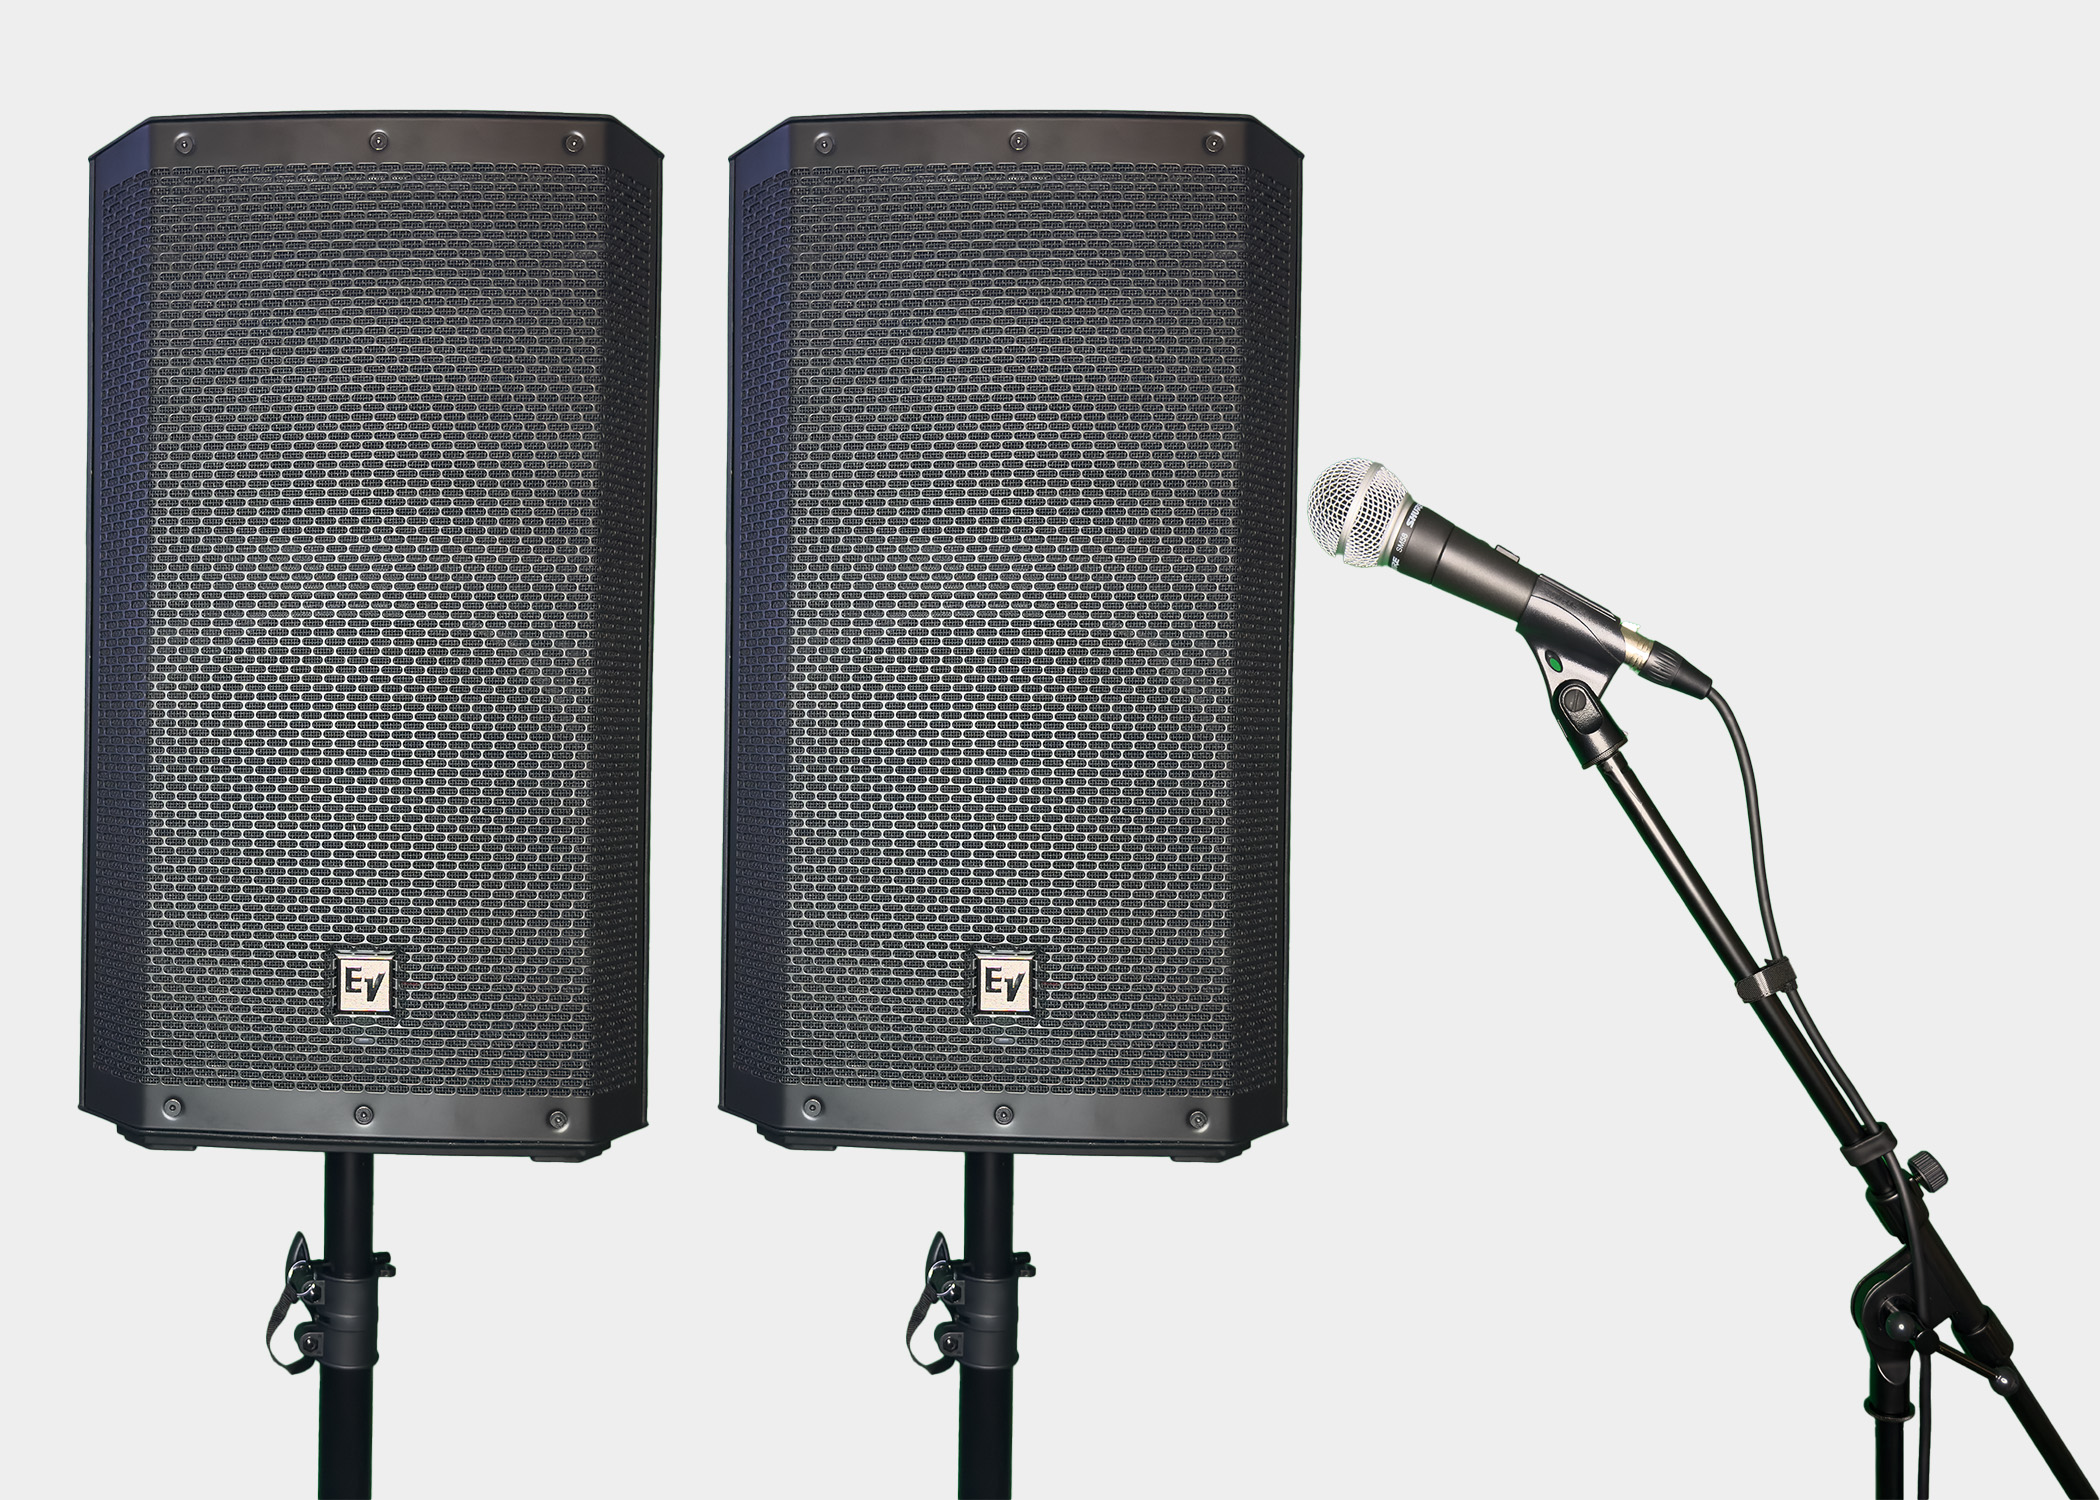
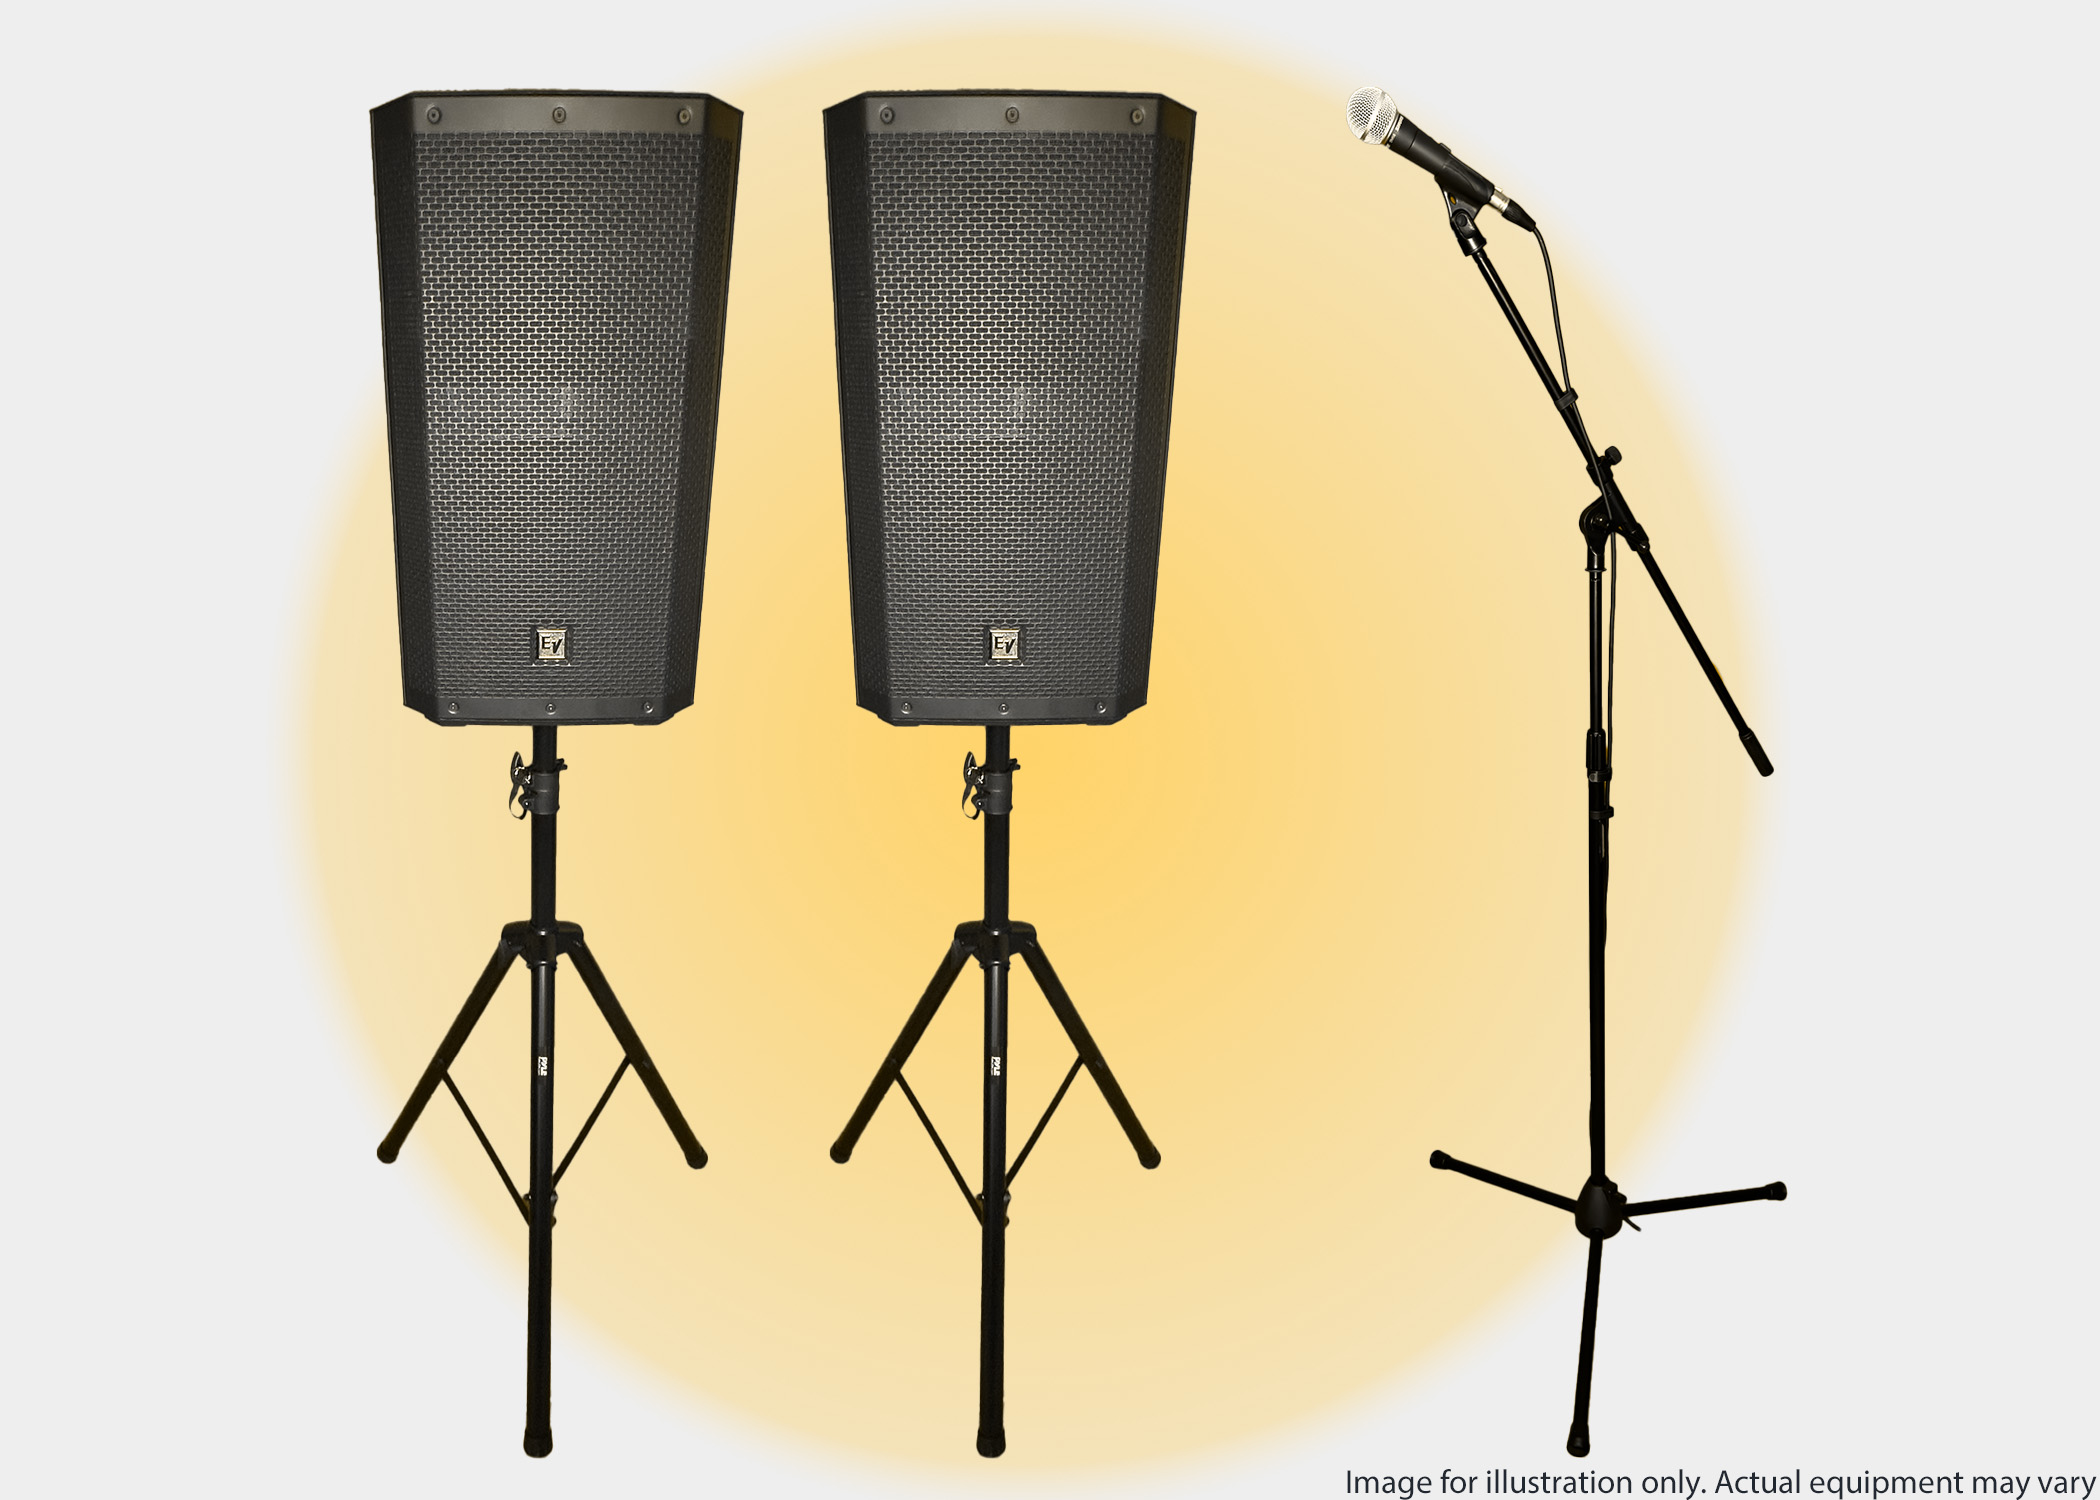
Various Changes
+ Added package photos
+ Added home page pics
+ Modified some content

diff --git a/_site/packages/package4/index.html b/_site/packages/package4/index.html
@@ -29,12 +29,12 @@
 <meta property="og:site_name" content="VANS Pro Audio Rentals" />
 <meta property="og:image" content="http://localhost:4000/assets/images/package4.jpg" />
 <meta property="og:type" content="article" />
-<meta property="article:published_time" content="2024-12-11T20:20:49-08:00" />
+<meta property="article:published_time" content="2024-12-14T12:03:40-08:00" />
 <meta name="twitter:card" content="summary_large_image" />
 <meta property="twitter:image" content="http://localhost:4000/assets/images/package4.jpg" />
 <meta property="twitter:title" content="Package 4" />
 <script type="application/ld+json">
-{"@context":"https://schema.org","@type":"BlogPosting","author":{"@type":"Person","name":"Vans"},"dateModified":"2024-12-11T20:20:49-08:00","datePublished":"2024-12-11T20:20:49-08:00","description":"This package includes an analog mixer and is targeted for events or setups where you need to connect more inputs such as microphones, keyboards, guitars, electronic drums etc. Includes 2 1000W full range speakers and a 1020W subwoofer for sound reinforcement. Perfect for small bands and outdoor gigs. One vocal microphone package (microphone, stand and cable) is included but more can be rented out separately.","headline":"Package 4","image":"http://localhost:4000/assets/images/package4.jpg","mainEntityOfPage":{"@type":"WebPage","@id":"http://localhost:4000/packages/package4/"},"url":"http://localhost:4000/packages/package4/"}</script>
+{"@context":"https://schema.org","@type":"BlogPosting","author":{"@type":"Person","name":"Vans"},"dateModified":"2024-12-14T12:03:40-08:00","datePublished":"2024-12-14T12:03:40-08:00","description":"This package includes an analog mixer and is targeted for events or setups where you need to connect more inputs such as microphones, keyboards, guitars, electronic drums etc. Includes 2 1000W full range speakers and a 1020W subwoofer for sound reinforcement. Perfect for small bands and outdoor gigs. One vocal microphone package (microphone, stand and cable) is included but more can be rented out separately.","headline":"Package 4","image":"http://localhost:4000/assets/images/package4.jpg","mainEntityOfPage":{"@type":"WebPage","@id":"http://localhost:4000/packages/package4/"},"url":"http://localhost:4000/packages/package4/"}</script>
 <!-- End Jekyll SEO tag -->
 
     
@@ -190,6 +190,7 @@
           <img src="/assets/images/logo.svg" alt="Bootstrap" width="60" height="60">
       </a>
       <p class="text-body-info">&copy; 2024 VANS Professional Audio Rentals</p>
+      <p class="text-body-info">United States</p>
     </div>
 
     <div class="col mb-3">

diff --git a/_site/packages/package3/index.html b/_site/packages/package3/index.html
@@ -29,12 +29,12 @@
 <meta property="og:site_name" content="VANS Pro Audio Rentals" />
 <meta property="og:image" content="http://localhost:4000/assets/images/package3.jpg" />
 <meta property="og:type" content="article" />
-<meta property="article:published_time" content="2024-12-11T20:20:49-08:00" />
+<meta property="article:published_time" content="2024-12-14T12:03:40-08:00" />
 <meta name="twitter:card" content="summary_large_image" />
 <meta property="twitter:image" content="http://localhost:4000/assets/images/package3.jpg" />
 <meta property="twitter:title" content="Package 3" />
 <script type="application/ld+json">
-{"@context":"https://schema.org","@type":"BlogPosting","author":{"@type":"Person","name":"Vans"},"dateModified":"2024-12-11T20:20:49-08:00","datePublished":"2024-12-11T20:20:49-08:00","description":"This package enhances Package 1 by adding a subwoofer, delivering the powerful low-end punch your sound system deserves. This is the go to package if you need to mostly play music for your audience. A wired vocal microphone package (microphone, stand and cable) is included with this package in case you need to make announcements between playing music.","headline":"Package 3","image":"http://localhost:4000/assets/images/package3.jpg","mainEntityOfPage":{"@type":"WebPage","@id":"http://localhost:4000/packages/package3/"},"url":"http://localhost:4000/packages/package3/"}</script>
+{"@context":"https://schema.org","@type":"BlogPosting","author":{"@type":"Person","name":"Vans"},"dateModified":"2024-12-14T12:03:40-08:00","datePublished":"2024-12-14T12:03:40-08:00","description":"This package enhances Package 1 by adding a subwoofer, delivering the powerful low-end punch your sound system deserves. This is the go to package if you need to mostly play music for your audience. A wired vocal microphone package (microphone, stand and cable) is included with this package in case you need to make announcements between playing music.","headline":"Package 3","image":"http://localhost:4000/assets/images/package3.jpg","mainEntityOfPage":{"@type":"WebPage","@id":"http://localhost:4000/packages/package3/"},"url":"http://localhost:4000/packages/package3/"}</script>
 <!-- End Jekyll SEO tag -->
 
     
@@ -184,6 +184,7 @@
           <img src="/assets/images/logo.svg" alt="Bootstrap" width="60" height="60">
       </a>
       <p class="text-body-info">&copy; 2024 VANS Professional Audio Rentals</p>
+      <p class="text-body-info">United States</p>
     </div>
 
     <div class="col mb-3">

diff --git a/_site/packages/package1/index.html b/_site/packages/package1/index.html
@@ -29,12 +29,12 @@
 <meta property="og:site_name" content="VANS Pro Audio Rentals" />
 <meta property="og:image" content="http://localhost:4000/assets/images/package1.jpg" />
 <meta property="og:type" content="article" />
-<meta property="article:published_time" content="2024-12-11T20:20:49-08:00" />
+<meta property="article:published_time" content="2024-12-14T12:03:40-08:00" />
 <meta name="twitter:card" content="summary_large_image" />
 <meta property="twitter:image" content="http://localhost:4000/assets/images/package1.jpg" />
 <meta property="twitter:title" content="Package 1" />
 <script type="application/ld+json">
-{"@context":"https://schema.org","@type":"BlogPosting","author":{"@type":"Person","name":"Vans"},"dateModified":"2024-12-11T20:20:49-08:00","datePublished":"2024-12-11T20:20:49-08:00","description":"This is our basic package, ideal for solo performers, presenters and exhibitors. It includes all the necessary accessories to help you get started with your gig. A wired vocal microphone package is included (microphone, stand and cable) with this package.","headline":"Package 1","image":"http://localhost:4000/assets/images/package1.jpg","mainEntityOfPage":{"@type":"WebPage","@id":"http://localhost:4000/packages/package1/"},"url":"http://localhost:4000/packages/package1/"}</script>
+{"@context":"https://schema.org","@type":"BlogPosting","author":{"@type":"Person","name":"Vans"},"dateModified":"2024-12-14T12:03:40-08:00","datePublished":"2024-12-14T12:03:40-08:00","description":"This is our basic package, ideal for solo performers, presenters and exhibitors. It includes all the necessary accessories to help you get started with your gig. A wired vocal microphone package is included (microphone, stand and cable) with this package.","headline":"Package 1","image":"http://localhost:4000/assets/images/package1.jpg","mainEntityOfPage":{"@type":"WebPage","@id":"http://localhost:4000/packages/package1/"},"url":"http://localhost:4000/packages/package1/"}</script>
 <!-- End Jekyll SEO tag -->
 
     
@@ -184,6 +184,7 @@
           <img src="/assets/images/logo.svg" alt="Bootstrap" width="60" height="60">
       </a>
       <p class="text-body-info">&copy; 2024 VANS Professional Audio Rentals</p>
+      <p class="text-body-info">United States</p>
     </div>
 
     <div class="col mb-3">

diff --git a/_site/packages/package2/index.html b/_site/packages/package2/index.html
@@ -29,12 +29,12 @@
 <meta property="og:site_name" content="VANS Pro Audio Rentals" />
 <meta property="og:image" content="http://localhost:4000/assets/images/package2.jpg" />
 <meta property="og:type" content="article" />
-<meta property="article:published_time" content="2024-12-11T20:20:49-08:00" />
+<meta property="article:published_time" content="2024-12-14T12:03:40-08:00" />
 <meta name="twitter:card" content="summary_large_image" />
 <meta property="twitter:image" content="http://localhost:4000/assets/images/package2.jpg" />
 <meta property="twitter:title" content="Package 2" />
 <script type="application/ld+json">
-{"@context":"https://schema.org","@type":"BlogPosting","author":{"@type":"Person","name":"Vans"},"dateModified":"2024-12-11T20:20:49-08:00","datePublished":"2024-12-11T20:20:49-08:00","description":"This package is designed for those looking to expand their sound setup for a larger audience. It features two powerful powered speakers. A wired vocal microphone package (microphone, stand and cable) is included with this package.","headline":"Package 2","image":"http://localhost:4000/assets/images/package2.jpg","mainEntityOfPage":{"@type":"WebPage","@id":"http://localhost:4000/packages/package2/"},"url":"http://localhost:4000/packages/package2/"}</script>
+{"@context":"https://schema.org","@type":"BlogPosting","author":{"@type":"Person","name":"Vans"},"dateModified":"2024-12-14T12:03:40-08:00","datePublished":"2024-12-14T12:03:40-08:00","description":"This package is designed for those looking to expand their sound setup for a larger audience. It features two powerful powered speakers. A wired vocal microphone package (microphone, stand and cable) is included with this package.","headline":"Package 2","image":"http://localhost:4000/assets/images/package2.jpg","mainEntityOfPage":{"@type":"WebPage","@id":"http://localhost:4000/packages/package2/"},"url":"http://localhost:4000/packages/package2/"}</script>
 <!-- End Jekyll SEO tag -->
 
     
@@ -182,6 +182,7 @@
           <img src="/assets/images/logo.svg" alt="Bootstrap" width="60" height="60">
       </a>
       <p class="text-body-info">&copy; 2024 VANS Professional Audio Rentals</p>
+      <p class="text-body-info">United States</p>
     </div>
 
     <div class="col mb-3">

diff --git a/_site/packages/index.html b/_site/packages/index.html
@@ -212,7 +212,7 @@
               <li>1 x Wired Vocal Microphone</li>
               <li>1 x 25 ft XLR Microphone Cable</li>
               <li>1 x Microphone Stand</li>
-              <li>Options: Shure SM58 or Similar</li>
+              <li>Equipment: Shure SM58</li>
             </ul>
           </div>
         </div>
@@ -228,7 +228,7 @@
               <li>1 x Wired Instrument Microphone</li>
               <li>1 x 25 ft XLR Microphone Cable</li>
               <li>1 x Microphone Stand</li>
-              <li>Options: Shure SM57 or Similar</li>
+              <li>Equipment: Shure SM57</li>
             </ul>
           </div>
         </div>
@@ -244,7 +244,7 @@
               <li>1 x Wireless Vocal Microphone and Receiver</li>
               <li>1 x 6 ft XLR Microphone Cable</li>
               <li>1 x Microphone Stand</li>
-              <li>Options: Shure BLX24/SM58 or Similar</li>
+              <li>Equipment: Shure BLX24/SM58</li>
             </ul>
           </div>
         </div>
@@ -265,6 +265,7 @@
           <img src="/assets/images/logo.svg" alt="Bootstrap" width="60" height="60">
       </a>
       <p class="text-body-info">&copy; 2024 VANS Professional Audio Rentals</p>
+      <p class="text-body-info">United States</p>
     </div>
 
     <div class="col mb-3">

diff --git a/packages.html b/packages.html
@@ -134,7 +134,7 @@ permalink: /packages/
               <li>1 x Wired Vocal Microphone</li>
               <li>1 x 25 ft XLR Microphone Cable</li>
               <li>1 x Microphone Stand</li>
-              <li>Options: Shure SM58 or Similar</li>
+              <li>Equipment: Shure SM58</li>
             </ul>
           </div>
         </div>
@@ -150,7 +150,7 @@ permalink: /packages/
               <li>1 x Wired Instrument Microphone</li>
               <li>1 x 25 ft XLR Microphone Cable</li>
               <li>1 x Microphone Stand</li>
-              <li>Options: Shure SM57 or Similar</li>
+              <li>Equipment: Shure SM57</li>
             </ul>
           </div>
         </div>
@@ -166,7 +166,7 @@ permalink: /packages/
               <li>1 x Wireless Vocal Microphone and Receiver</li>
               <li>1 x 6 ft XLR Microphone Cable</li>
               <li>1 x Microphone Stand</li>
-              <li>Options: Shure BLX24/SM58 or Similar</li>
+              <li>Equipment: Shure BLX24/SM58</li>
             </ul>
           </div>
         </div>

diff --git a/_site/about/faqs/index.html b/_site/about/faqs/index.html
@@ -348,6 +348,7 @@ Yes, we offer package deals for events requiring multiple items or long-term ren
           <img src="/assets/images/logo.svg" alt="Bootstrap" width="60" height="60">
       </a>
       <p class="text-body-info">&copy; 2024 VANS Professional Audio Rentals</p>
+      <p class="text-body-info">United States</p>
     </div>
 
     <div class="col mb-3">

diff --git a/_site/about/contact/index.html b/_site/about/contact/index.html
@@ -243,6 +243,7 @@ function submitForm() {
           <img src="/assets/images/logo.svg" alt="Bootstrap" width="60" height="60">
       </a>
       <p class="text-body-info">&copy; 2024 VANS Professional Audio Rentals</p>
+      <p class="text-body-info">United States</p>
     </div>
 
     <div class="col mb-3">

diff --git a/_site/about/brands/index.html b/_site/about/brands/index.html
@@ -120,6 +120,7 @@
           <img src="/assets/images/logo.svg" alt="Bootstrap" width="60" height="60">
       </a>
       <p class="text-body-info">&copy; 2024 VANS Professional Audio Rentals</p>
+      <p class="text-body-info">United States</p>
     </div>
 
     <div class="col mb-3">

diff --git a/_site/index.html b/_site/index.html
@@ -201,6 +201,7 @@
           <img src="/assets/images/logo.svg" alt="Bootstrap" width="60" height="60">
       </a>
       <p class="text-body-info">&copy; 2024 VANS Professional Audio Rentals</p>
+      <p class="text-body-info">United States</p>
     </div>
 
     <div class="col mb-3">

diff --git a/_includes/footer.html b/_includes/footer.html
@@ -7,6 +7,7 @@
           <img src="/assets/images/logo.svg" alt="Bootstrap" width="60" height="60">
       </a>
       <p class="text-body-info">&copy; {{site.year}} {{site.company}}</p>
+      <p class="text-body-info">United States</p>
     </div>
 
     <div class="col mb-3">
